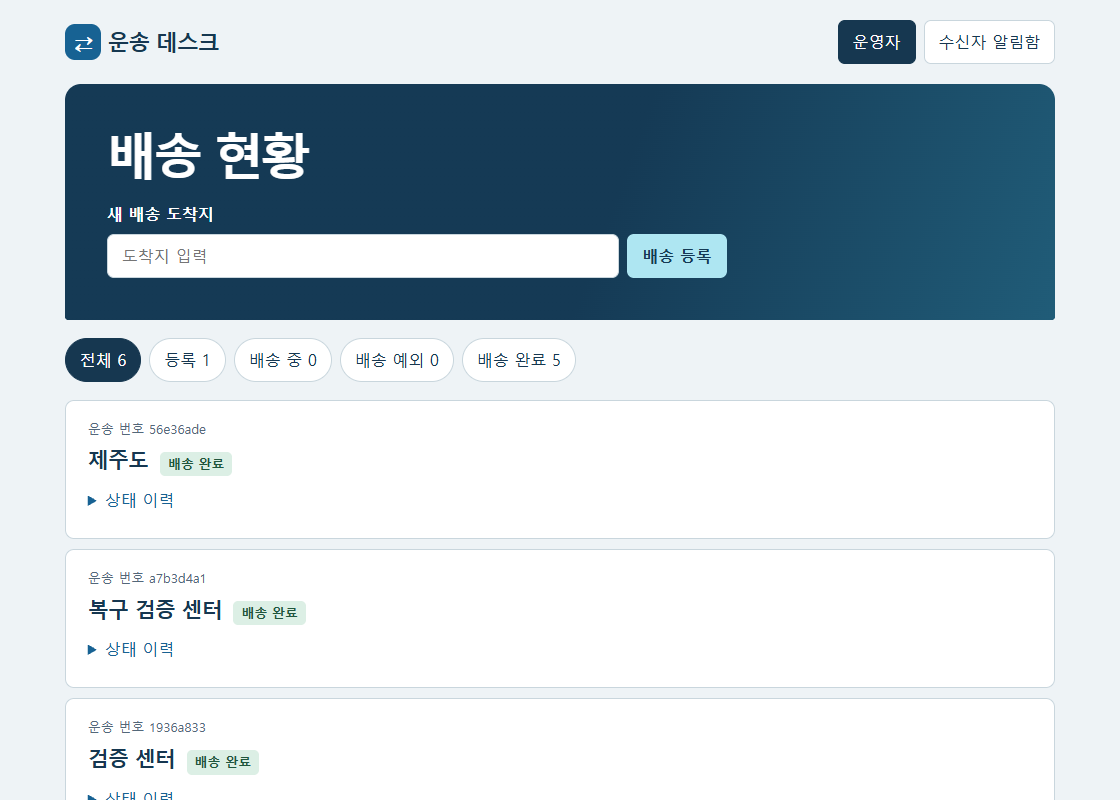
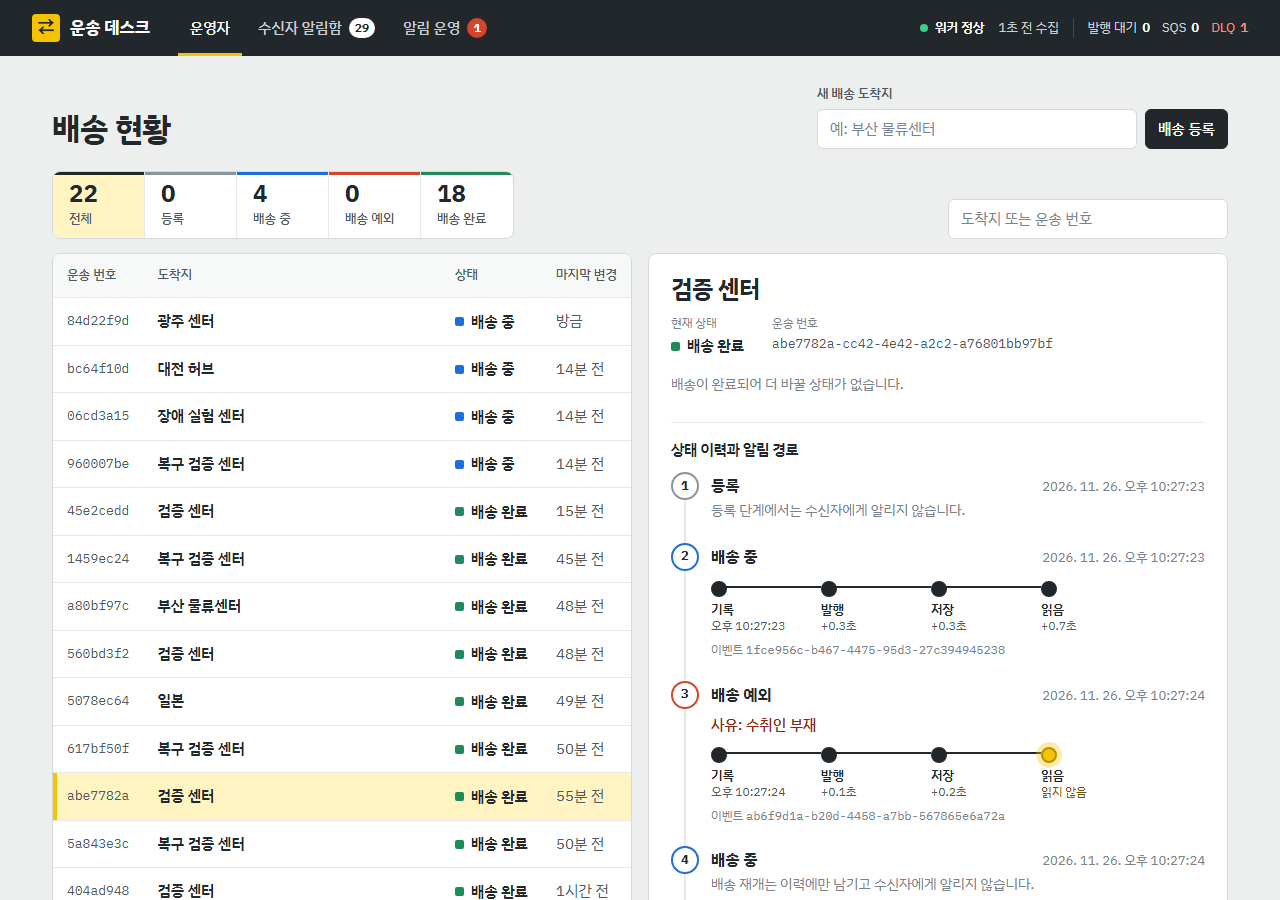
docs: README 화면 캡처를 현재 화면으로 교체
- 누락돼 있던 docs/operations.png 추가: 알림 저장 실패를 주입해 DLQ에 들어온 메시지와 워커 처리 기록
- dispatch.png: 배송 목록과 선택한 배송의 상태 이력·알림 경로
- inbox.png: 예외 사유가 포함된 알림함
- 각 이미지의 대체 텍스트를 화면 내용에 맞게 수정

diff --git a/README.md b/README.md
@@ -21,12 +21,12 @@ docker compose up -d --build
 3. 알림을 읽음으로 표시한 뒤 운영자 화면에서 **예외 등록(사유 입력) → 배송 재개 → 배송 완료**를 시도합니다. 목록에서 배송을 고르면 오른쪽 상세에서 상태 이력과 알림이 기록·발행·저장·읽음을 거친 경로를 볼 수 있습니다. 배송 재개는 이력에만 기록되며, 이 흐름에서 수신자는 알림 세 건을 받고 예외 알림에는 사유가 함께 표시됩니다.
 4. [알림 운영](http://localhost:3180/#operations)에서 최근 배송 이벤트를 찾습니다. 이벤트마다 SQS 발행과 알림 저장까지 걸린 시간을 확인할 수 있습니다. 파이프라인 현황은 워커가 3초마다 조회한 SQS 근사치입니다. 정상 처리 직후 대기 건수가 0이어도 아래 이벤트 이력은 남습니다.
 
-![SQS 대기·처리 중 메시지와 DLQ 복구 기록을 보여주는 알림 운영 화면](docs/operations.png)
+![알림 저장 실패를 주입해 DLQ에 들어온 메시지와 워커 처리 기록을 보여주는 알림 운영 화면](docs/operations.png)
 
 <details><summary>배송 현황과 수신자 알림함 화면</summary>
 
-![배송 상태별 필터가 있는 운송 데스크](docs/dispatch.png)
-![읽지 않은 알림을 모아 보는 수신자 알림함](docs/inbox.png)
+![배송 목록과 선택한 배송의 상태 이력, 알림 경로를 보여주는 운영자 화면](docs/dispatch.png)
+![예외 사유와 함께 읽지 않은 알림을 보여주는 수신자 알림함](docs/inbox.png)
 
 </details>
 
